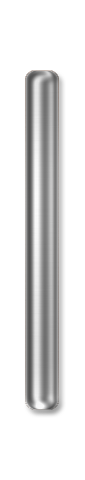
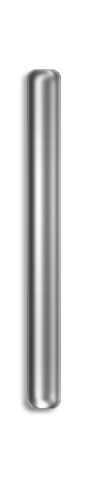
amended layout and knobs

Changed region(s): [[0.2588, 0.125, 0.7529, 0.875], [0.3059, 0.125, 0.3294, 0.1562]]

diff --git a/app/MultifuzzEditor.cpp b/app/MultifuzzEditor.cpp
@@ -71,19 +71,19 @@ void MultifuzzEditor::MakeGainControls(IGraphics* graphics) {
 	IText lblText = IText(16, &COLOR_BLACK, strdup(LayoutConstants::kGlobalFont.c_str()),
 		IText::EStyle::kStyleNormal, IText::EAlign::kAlignCenter);
 
-	graphics->AttachControl(new ITextControl(mPlugin, IRECT(90, 110, 195, 130), &lblText, "Input"));
-	graphics->AttachControl(new ITextControl(mPlugin, IRECT(200, 110, 305, 130), &lblText, "Output"));
+	graphics->AttachControl(new ITextControl(mPlugin, IRECT(90, 125, 195, 150), &lblText, "Input"));
+	graphics->AttachControl(new ITextControl(mPlugin, IRECT(200, 125, 305, 150), &lblText, "Output"));
 	
 	// Attach the VU Meter bitmaps
 	IBitmap vuMeterBitmap = graphics->LoadIBitmap(VUMETER_ID, VUMETER_FN);
-	graphics->AttachControl(new IBitmapControl(mPlugin, 90, 146, &vuMeterBitmap));
-	graphics->AttachControl(new IBitmapControl(mPlugin, 200, 146, &vuMeterBitmap));
+	graphics->AttachControl(new IBitmapControl(mPlugin, 90, 152, &vuMeterBitmap));
+	graphics->AttachControl(new IBitmapControl(mPlugin, 200, 152, &vuMeterBitmap));
 
 	// Add the vu meters
-	mInputPeakIdxL = graphics->AttachControl(new PeakMeter(mPlugin, IRECT(115, 148, 136, 334)));
-	mInputPeakIdxR = graphics->AttachControl(new PeakMeter(mPlugin, IRECT(150, 153, 171, 334)));
-	mOutputPeakIdxL = graphics->AttachControl(new PeakMeter(mPlugin, IRECT(225, 153, 246, 334)));
-	mOutputPeakIdxR = graphics->AttachControl(new PeakMeter(mPlugin, IRECT(260, 153, 281, 334)));
+	mInputPeakIdxL = graphics->AttachControl(new PeakMeter(mPlugin, IRECT(115, 158, 136, 340)));
+	mInputPeakIdxR = graphics->AttachControl(new PeakMeter(mPlugin, IRECT(150, 158, 171, 340)));
+	mOutputPeakIdxL = graphics->AttachControl(new PeakMeter(mPlugin, IRECT(225, 158, 246, 340)));
+	mOutputPeakIdxR = graphics->AttachControl(new PeakMeter(mPlugin, IRECT(260, 158, 281, 340)));
 
 	// Add knobs
 	MakeKnob(graphics, 115, 380, EParameters::InputGain, "gain");
@@ -97,21 +97,21 @@ void MultifuzzEditor::MakeDistortionControls(IGraphics* graphics) {
 		IText::EStyle::kStyleBold, IText::EAlign::kAlignCenter);
 
 	// Band 1 ...
-	graphics->AttachControl(new ITextControl(mPlugin, IRECT(350, 24, 398, 40), &lblText, "Band 1"));
+	graphics->AttachControl(new ITextControl(mPlugin, IRECT(350, 24, 414, 40), &lblText, "Band 1"));
 	MakeKnob(graphics, 350, 80, EParameters::BandOneOverdrive, "overdrive");
 	MakeKnob(graphics, 350, 180, EParameters::BandOneFrequency, "frequency");
 	MakeKnob(graphics, 350, 280, EParameters::BandOneWidth, "width");
 	MakeKnob(graphics, 350, 380, EParameters::BandOneResonance, "resonance");
 
 	// Band 2 ...
-	graphics->AttachControl(new ITextControl(mPlugin, IRECT(450, 24, 498, 40), &lblText, "Band 2"));
+	graphics->AttachControl(new ITextControl(mPlugin, IRECT(450, 24, 514, 40), &lblText, "Band 2"));
 	MakeKnob(graphics, 450, 80, EParameters::BandTwoOverdrive, "overdrive");
 	MakeKnob(graphics, 450, 180, EParameters::BandTwoFrequency, "frequency");
 	MakeKnob(graphics, 450, 280, EParameters::BandTwoWidth, "width");
 	MakeKnob(graphics, 450, 380, EParameters::BandTwoResonance, "resonance");
 
 	// Band 3 ...
-	graphics->AttachControl(new ITextControl(mPlugin, IRECT(550, 24, 598, 40), &lblText, "Band 3"));
+	graphics->AttachControl(new ITextControl(mPlugin, IRECT(550, 24, 614, 40), &lblText, "Band 3"));
 	MakeKnob(graphics, 550, 80, EParameters::BandThreeOverdrive, "overdrive");
 	MakeKnob(graphics, 550, 180, EParameters::BandThreeFrequency, "frequency");
 	MakeKnob(graphics, 550, 280, EParameters::BandThreeWidth, "width");
@@ -121,6 +121,6 @@ void MultifuzzEditor::MakeDistortionControls(IGraphics* graphics) {
 // Make a knob
 void MultifuzzEditor::MakeKnob(IGraphics* graphics, int x, int y, EParameters parameter, char* label) {
 	IBitmap knob = graphics->LoadIBitmap(KNOB_ID, KNOB_FN, LayoutConstants::kKnobFrames);
-	IText text = IText(14, &COLOR_BLACK, strdup(LayoutConstants::kGlobalFont.c_str()));
-	graphics->AttachControl(new MultifuzzKnob(mPlugin, IRECT(x, y, x + 48, y + 48 + 20), parameter, &knob, &text, label));
+	IText text = IText(16, &COLOR_BLACK, strdup(LayoutConstants::kGlobalFont.c_str()));
+	graphics->AttachControl(new MultifuzzKnob(mPlugin, IRECT(x, y, x + 64, y + 64 + 15), parameter, &knob, &text, label));
 }

diff --git a/app/resource.h b/app/resource.h
@@ -60,7 +60,7 @@ instrument determined by PLUG _IS _INST
 #define VUMETER_ID 104
 
 // Image resource locations for this plug.
-#define KNOB_FN "resources/img/knob.png"
+#define KNOB_FN "resources/img/org_amp.png"
 #define BACKGROUND_FN "resources/img/background.png"
 #define HANDLE_FN "resources/img/handle.png"
 #define VUMETER_FN "resources/img/vumeter.png"

diff --git a/app/LayoutConstants.h b/app/LayoutConstants.h
@@ -9,5 +9,5 @@ namespace LayoutConstants {
 	const int kGuiWidth = GUI_WIDTH;
 	const int kGuiHeight = GUI_HEIGHT;
 	const string kGlobalFont = "Courier New";
-	const int kKnobFrames = 60; // The number of frames in the knob sprite
+	const int kKnobFrames = 31; // The number of frames in the knob sprite
 }
